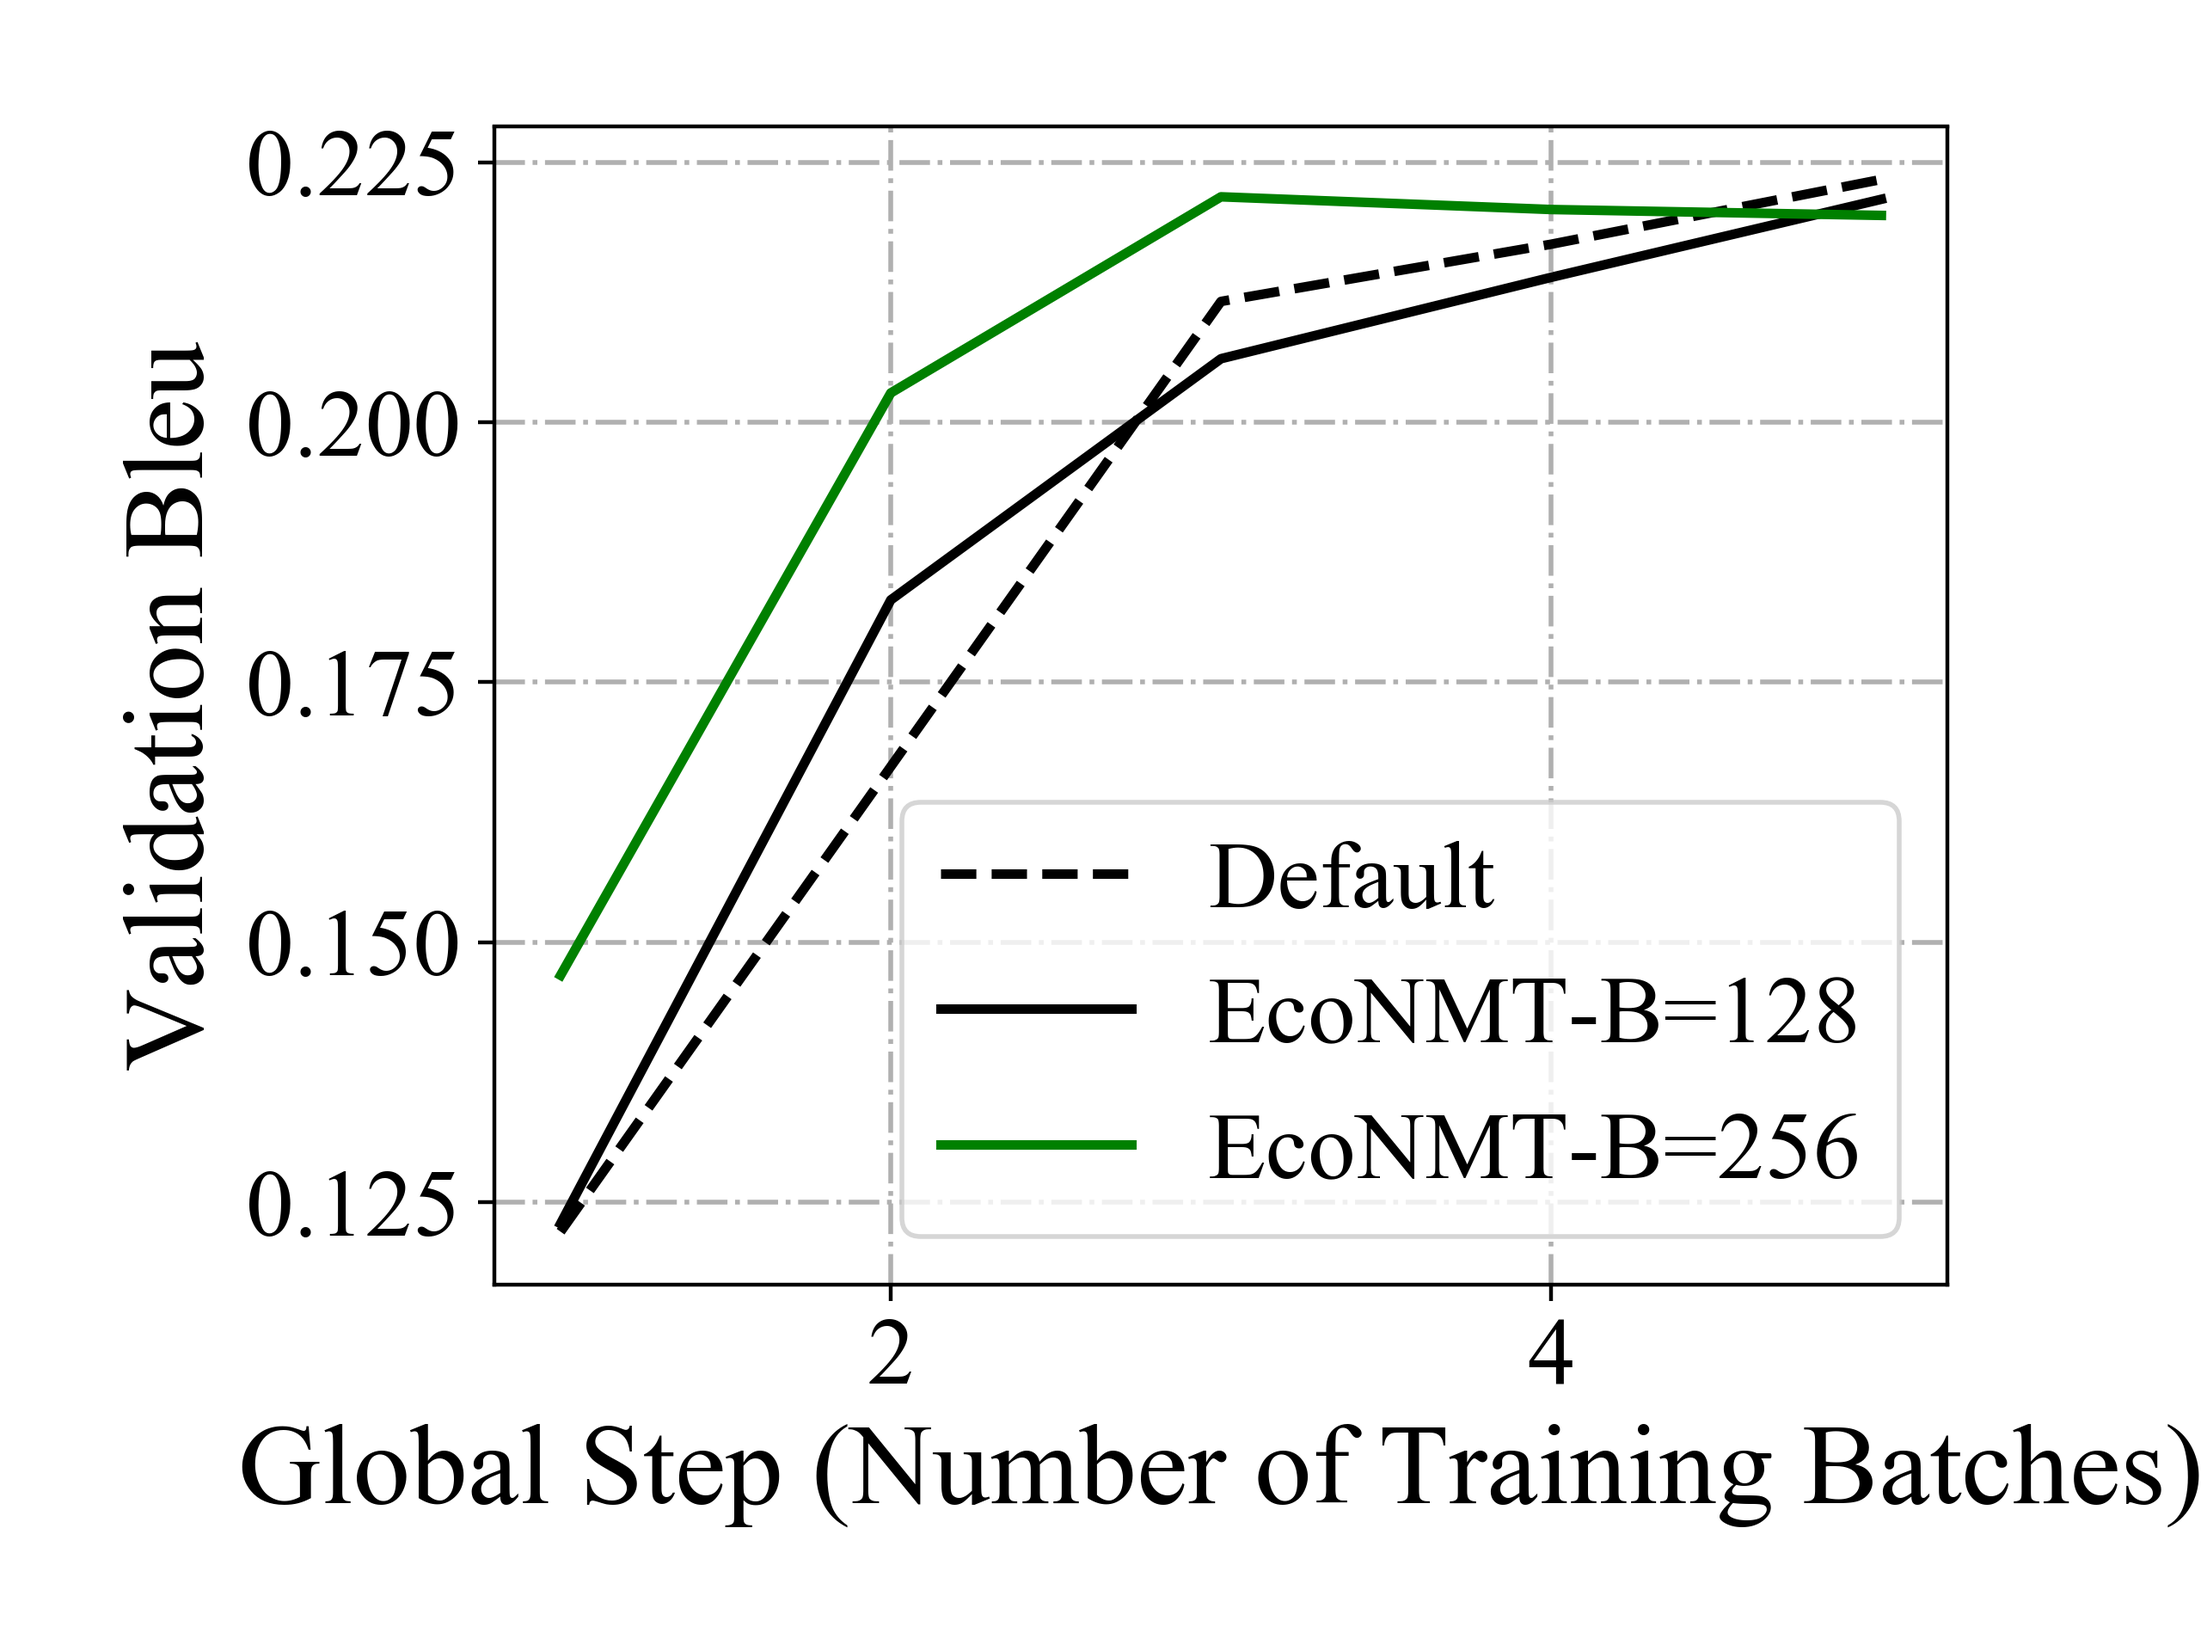
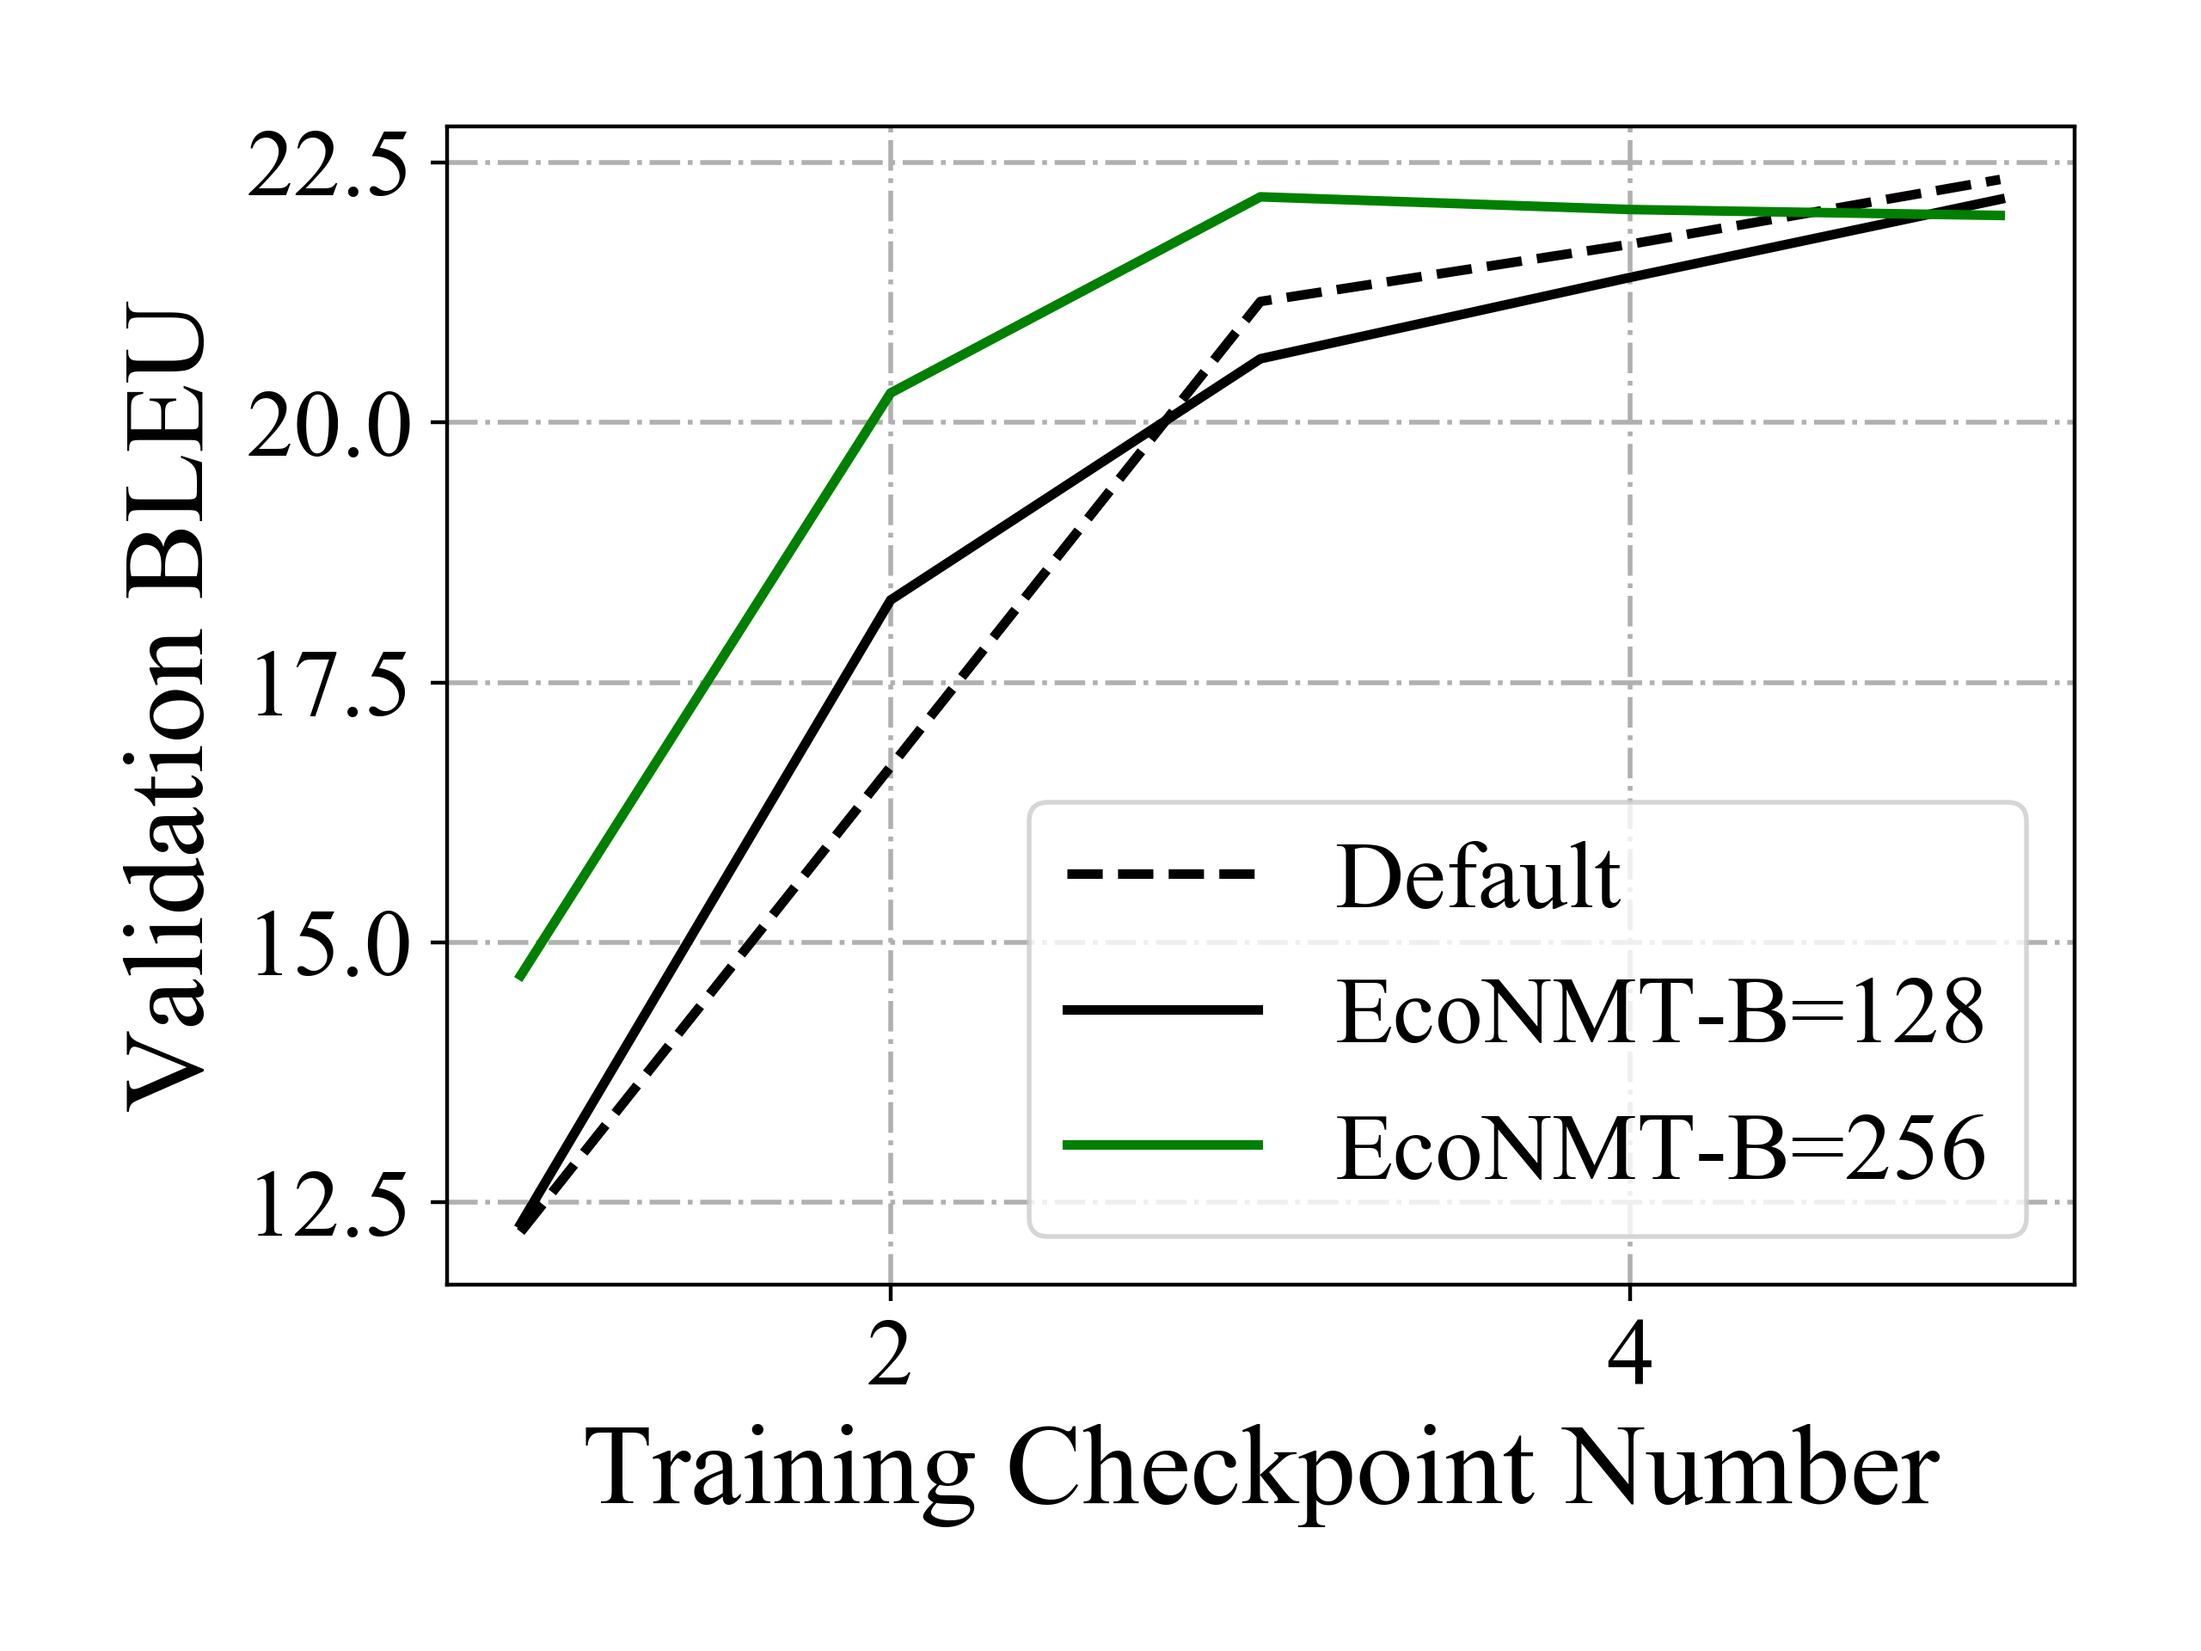
Changed the xaxis and yaxis of the validation BLEU graph.

diff --git a/workspace/results/tensorboard/visualizer.py b/workspace/results/tensorboard/visualizer.py
@@ -158,6 +158,10 @@ def plt_default_vs_econmt_full_training(csv_prefix, xscale, metric, metric_unit=
         default_128_metric[:,2] = default_128_metric[:,2] / 1000
         econmt_128_metric [:,2] = econmt_128_metric [:,2] / 1000
         econmt_256_metric [:,2] = econmt_256_metric [:,2] / 1000
+    if metric == 'validation_bleu':
+        default_128_metric[:,2] = default_128_metric[:,2] * 100
+        econmt_128_metric [:,2] = econmt_128_metric [:,2] * 100
+        econmt_256_metric [:,2] = econmt_256_metric [:,2] * 100
 
     # ==============================================================================================
 
@@ -173,8 +177,11 @@ def plt_default_vs_econmt_full_training(csv_prefix, xscale, metric, metric_unit=
              econmt_256_metric [:,2], linewidth=2, linestyle='-',
              color='green', label='EcoNMT-B=256')
 
-    plt.xlabel(r'Time (min)' if xscale == 'T' else 'Global Step (Number of Training Batches)')
-    plt.ylabel("%s (%s)" % (ylabel, metric_unit) if metric_unit is not None else ylabel)
+    plt.xlabel(r'Time (min)' if xscale == 'T' else \
+               'Training Checkpoint Number' if metric == 'validation_bleu' else \
+               'Global Step (Number of Training Batches)')
+    plt.ylabel("Validation BLEU" if metric == 'validation_bleu' else \
+               "%s (%s)" % (ylabel, metric_unit) if metric_unit is not None else ylabel)
     plt.xticks(fontsize=20)
     plt.yticks(fontsize=20)
 
